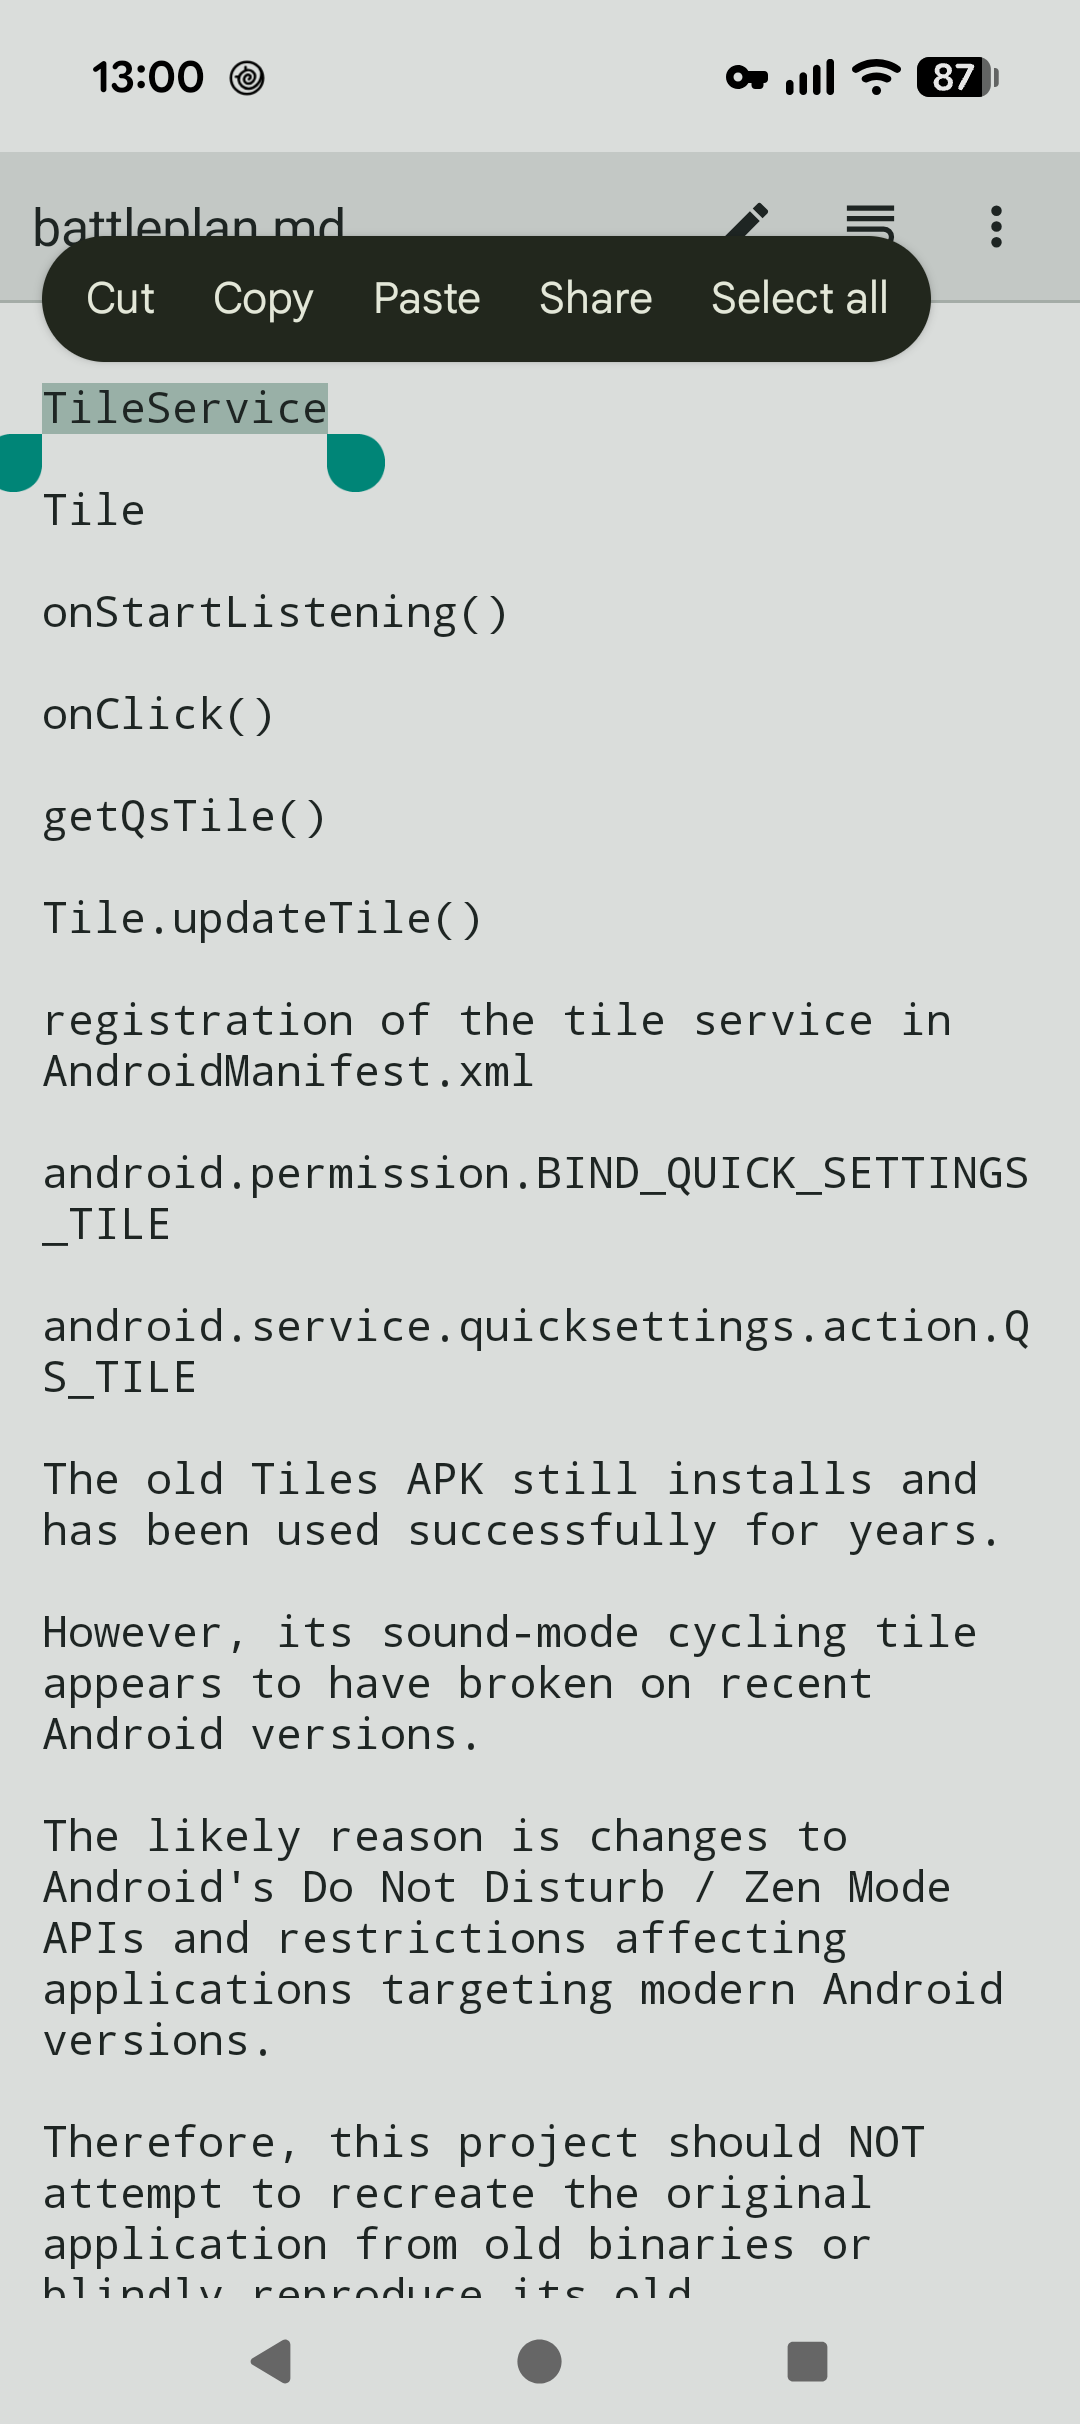
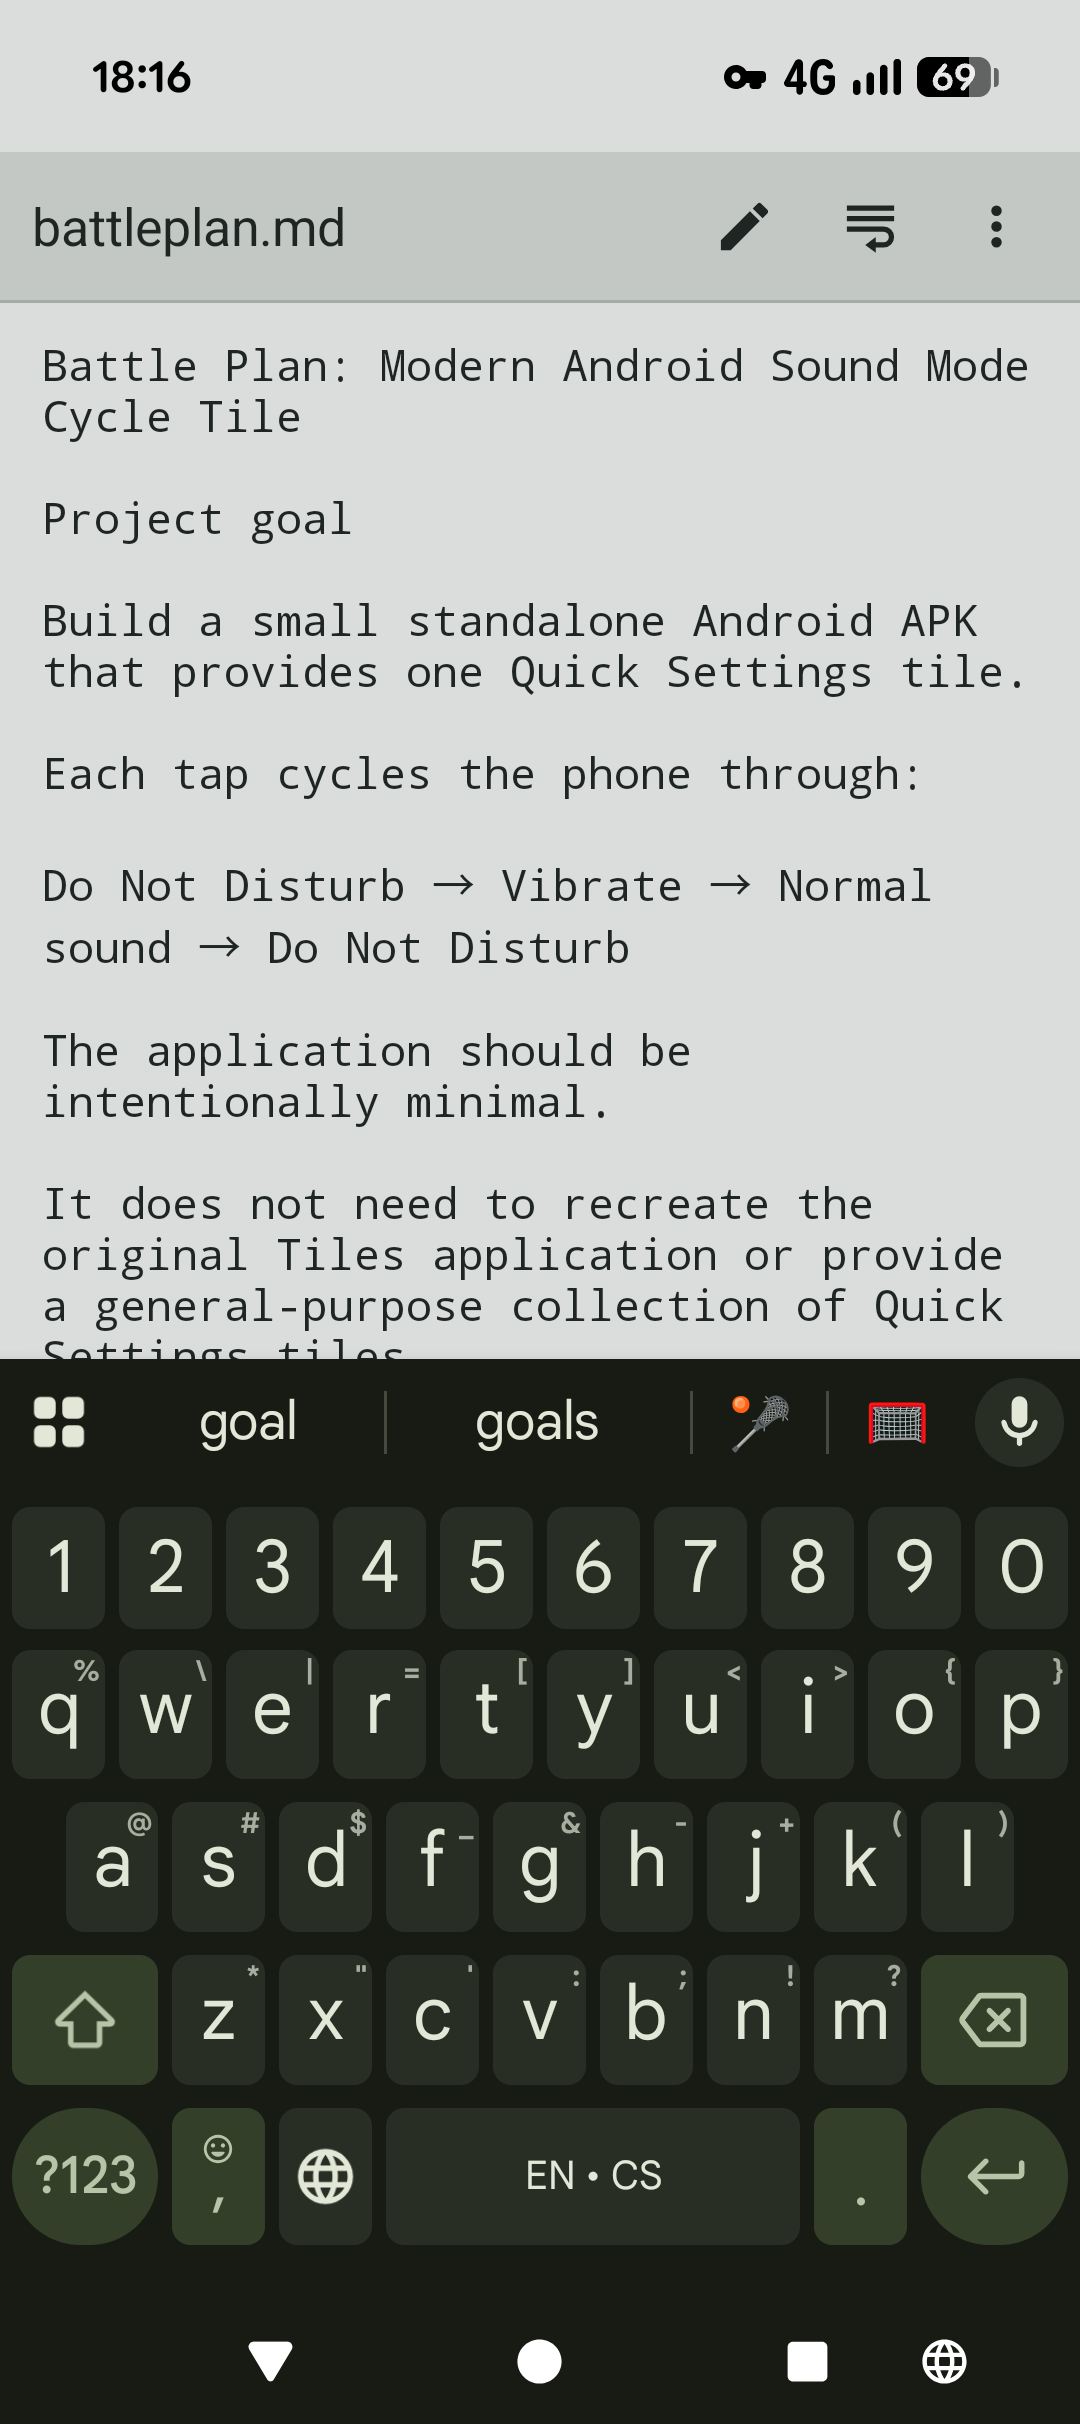
Use new editor screenshot in quick help

diff --git a/docs/index.html b/docs/index.html
@@ -63,10 +63,10 @@
 <h2>Use the pencil when you want to type.</h2>
 <p>Tapping the text places the cursor. The pencil opens the keyboard at that position; tapping it again hides the keyboard. Hold a word to select it, then drag the handles. Android’s copy and paste controls are available.</p>
 <figure>
-<a href="assets/selection.png" aria-label="A selected word with Android’s Cut, Copy, Paste, Share and Select all controls.">
-<img src="assets/selection.png" width="1080" height="2424" loading="lazy" alt="A selected word with Android’s Cut, Copy, Paste, Share and Select all controls.">
+<a href="assets/selection.png" aria-label="tomez showing an open text file with the Android keyboard visible.">
+<img src="assets/selection.png" width="1080" height="2424" loading="lazy" alt="tomez showing an open text file with the Android keyboard visible.">
 </a>
-<figcaption>Editing and reading use the same document view.</figcaption>
+<figcaption>Tap the pencil to show or hide the keyboard. Tap text to place the cursor.</figcaption>
 </figure>
 </article>
 <article>
@@ -146,10 +146,10 @@
 <h2>Když chceš psát, klepni na tužku.</h2>
 <p>Klepnutí do textu umístí kurzor. Tužka otevře klávesnici na této pozici; další klepnutí ji skryje. Podržením slova ho vybereš a úchyty upravíš rozsah výběru. Kopírování a vkládání funguje přes běžnou nabídku Androidu.</p>
 <figure>
-<a href="assets/selection.png" aria-label="Vybrané slovo s běžnými ovládacími prvky Androidu pro vyjmutí, kopírování a vložení.">
-<img src="assets/selection.png" width="1080" height="2424" loading="lazy" alt="Vybrané slovo s běžnými ovládacími prvky Androidu pro vyjmutí, kopírování a vložení.">
+<a href="assets/selection.png" aria-label="tomez s otevřeným textovým souborem a zobrazenou klávesnicí Androidu.">
+<img src="assets/selection.png" width="1080" height="2424" loading="lazy" alt="tomez s otevřeným textovým souborem a zobrazenou klávesnicí Androidu.">
 </a>
-<figcaption>Čtení i úpravy probíhají ve stejném zobrazení dokumentu.</figcaption>
+<figcaption>Tužkou zobrazíš nebo skryješ klávesnici. Klepnutím do textu umístíš kurzor.</figcaption>
 </figure>
 </article>
 <article>
